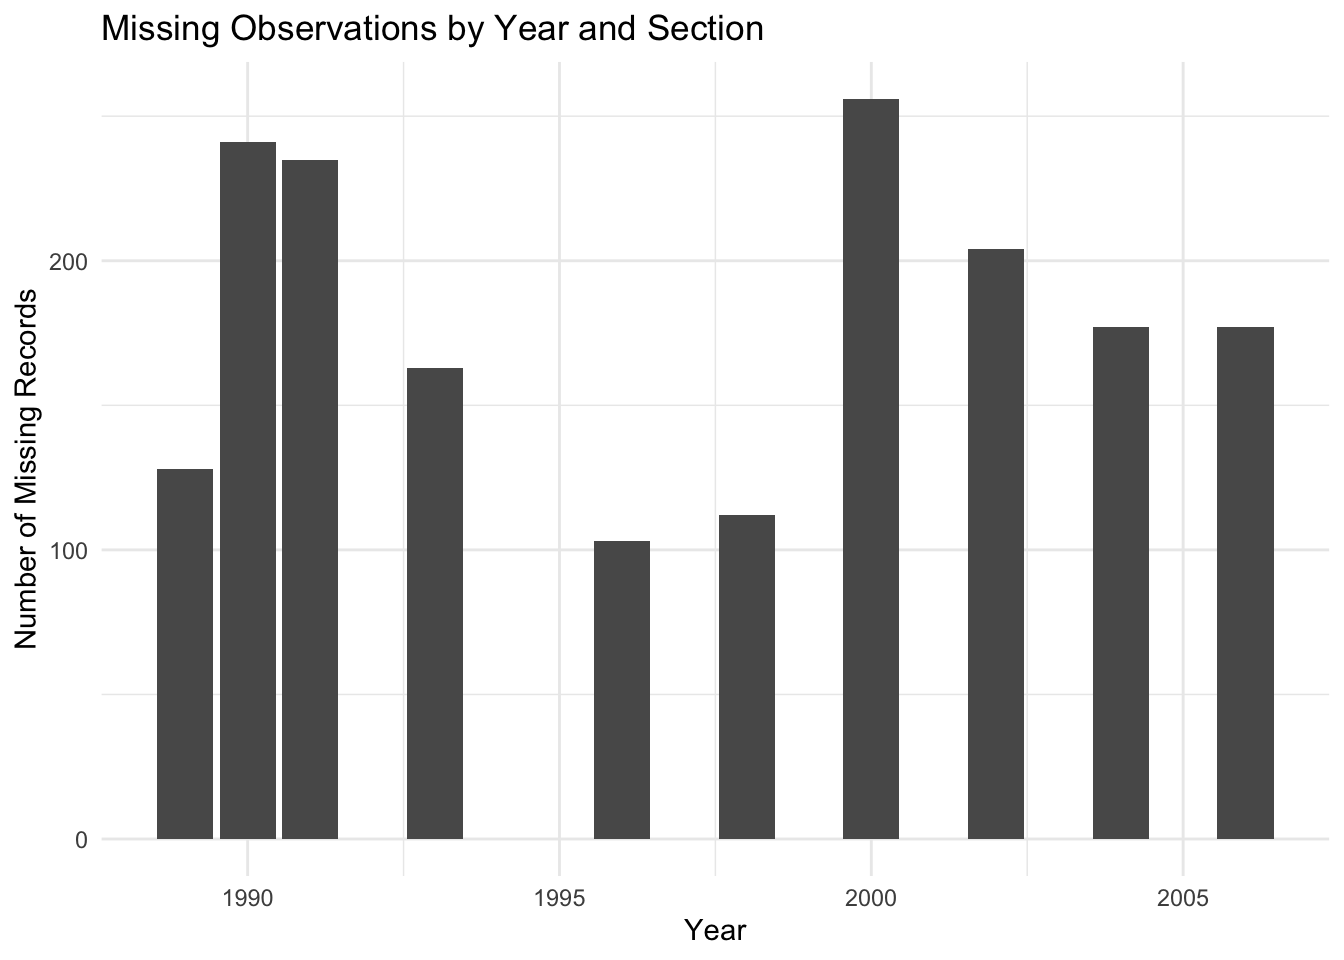
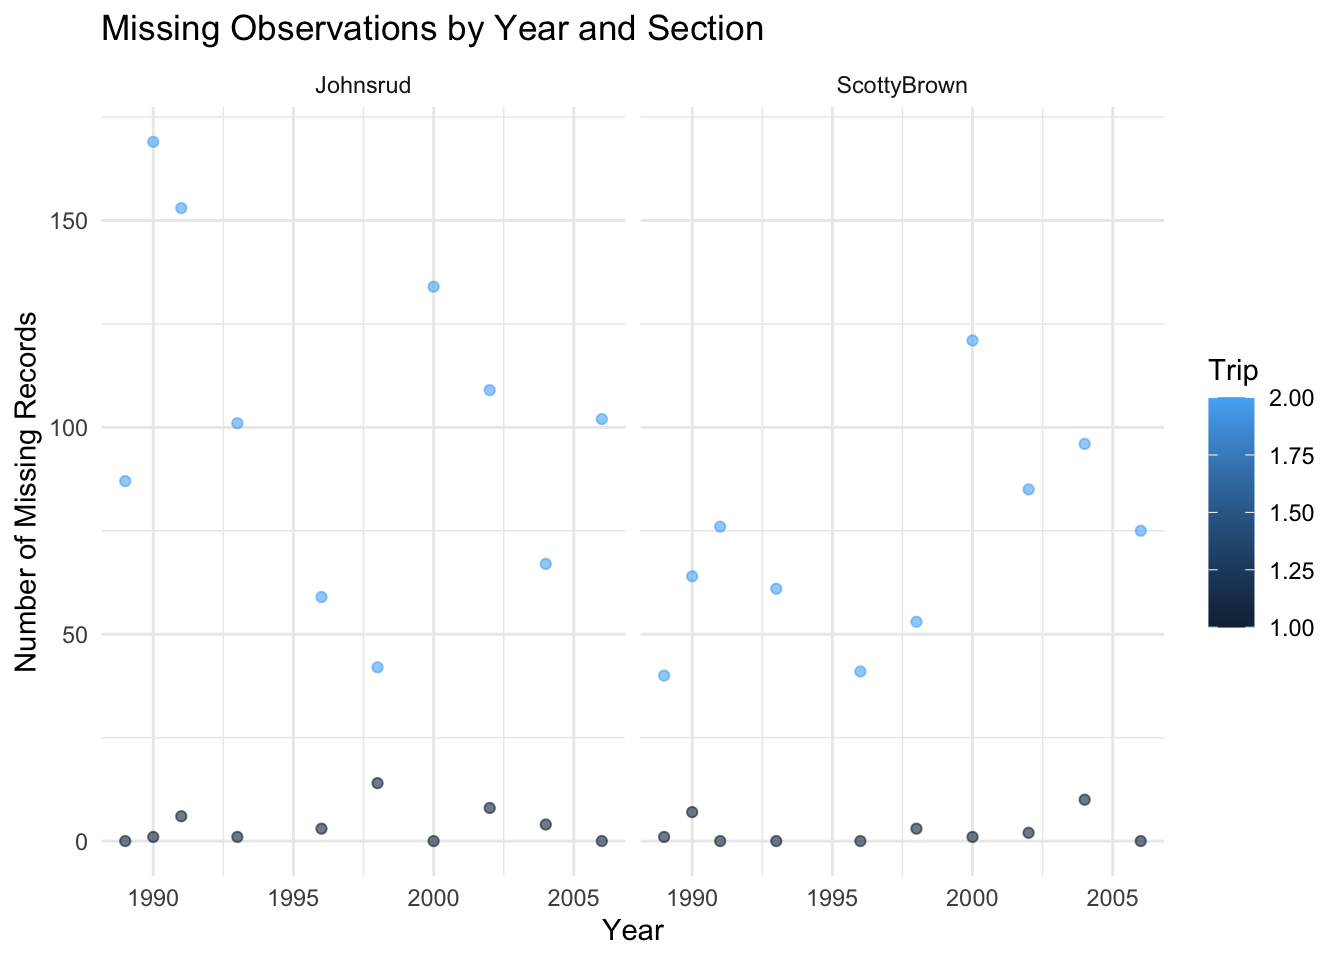
OOps Render!

diff --git a/lab-8-student.html b/lab-8-student.html
@@ -133,10 +133,6 @@ window.Quarto = {
 
 
 <p>The goal of this lab is learn more about exploring missing data and writing modular code.</p>
-<div class="cell">
-<div class="sourceCode cell-code" id="cb1"><pre class="sourceCode r code-with-copy"><code class="sourceCode r"><span id="cb1-1"><a href="#cb1-1" aria-hidden="true" tabindex="-1"></a><span class="fu">library</span>(tidyverse)</span>
-<span id="cb1-2"><a href="#cb1-2" aria-hidden="true" tabindex="-1"></a><span class="fu">library</span>(ggplot2)</span></code><button title="Copy to Clipboard" class="code-copy-button"><i class="bi"></i></button></pre></div>
-</div>
 <section id="the-data" class="level2">
 <h2 class="anchored" data-anchor-id="the-data">The Data</h2>
 <p>This lab’s data concerns mark-recapture data on four species of trout from the Blackfoot River outside of Helena, Montana. These four species are <strong>rainbow trout (RBT)</strong>, <strong>westslope cutthroat trout (WCT)</strong>, <strong>bull trout</strong>, and <strong>brown trout</strong>.</p>
@@ -164,37 +160,36 @@ You should use <code>across()</code>!
 </div>
 </div>
 <div class="cell">
-<div class="sourceCode cell-code" id="cb2"><pre class="sourceCode r code-with-copy"><code class="sourceCode r"><span id="cb2-1"><a href="#cb2-1" aria-hidden="true" tabindex="-1"></a>fish <span class="ot">&lt;-</span> <span class="fu">read_csv</span>(<span class="st">"BlackfootFish.csv"</span>)</span>
-<span id="cb2-2"><a href="#cb2-2" aria-hidden="true" tabindex="-1"></a></span>
-<span id="cb2-3"><a href="#cb2-3" aria-hidden="true" tabindex="-1"></a>n_rows_with_na <span class="ot">&lt;-</span> fish <span class="sc">|&gt;</span> </span>
-<span id="cb2-4"><a href="#cb2-4" aria-hidden="true" tabindex="-1"></a>  <span class="do">## Summarise returns a single value: the number of rows that have at least one NA</span></span>
-<span id="cb2-5"><a href="#cb2-5" aria-hidden="true" tabindex="-1"></a>  <span class="fu">summarise</span>(</span>
-<span id="cb2-6"><a href="#cb2-6" aria-hidden="true" tabindex="-1"></a>    <span class="at">n_rows_with_na =</span> <span class="fu">sum</span>(</span>
-<span id="cb2-7"><a href="#cb2-7" aria-hidden="true" tabindex="-1"></a>      <span class="do">## if_any checks across all columns for each row</span></span>
-<span id="cb2-8"><a href="#cb2-8" aria-hidden="true" tabindex="-1"></a>      <span class="fu">if_any</span>(<span class="fu">everything</span>(), <span class="sc">~</span> <span class="fu">is.na</span>(.))</span>
-<span id="cb2-9"><a href="#cb2-9" aria-hidden="true" tabindex="-1"></a>    )</span>
-<span id="cb2-10"><a href="#cb2-10" aria-hidden="true" tabindex="-1"></a>  )</span></code><button title="Copy to Clipboard" class="code-copy-button"><i class="bi"></i></button></pre></div>
-</div>
-<p><strong>1b. Using <code>map_int()</code>, produce a nicely formatted table of the number of missing values for each variable in the <code>fish</code> data that displays the same information as 1a</strong></p>
-<div class="cell">
-<div class="sourceCode cell-code" id="cb3"><pre class="sourceCode r code-with-copy"><code class="sourceCode r"><span id="cb3-1"><a href="#cb3-1" aria-hidden="true" tabindex="-1"></a>missing_by_variable <span class="ot">&lt;-</span> fish <span class="sc">|&gt;</span> </span>
-<span id="cb3-2"><a href="#cb3-2" aria-hidden="true" tabindex="-1"></a>  </span>
-<span id="cb3-3"><a href="#cb3-3" aria-hidden="true" tabindex="-1"></a>  <span class="do">## Apply a function to each column: count how many NAs are in each</span></span>
-<span id="cb3-4"><a href="#cb3-4" aria-hidden="true" tabindex="-1"></a>  <span class="fu">summarise</span>(<span class="fu">across</span>(<span class="fu">everything</span>(), <span class="sc">~</span> <span class="fu">sum</span>(<span class="fu">is.na</span>(.)))) <span class="sc">|&gt;</span> </span>
-<span id="cb3-5"><a href="#cb3-5" aria-hidden="true" tabindex="-1"></a>  </span>
-<span id="cb3-6"><a href="#cb3-6" aria-hidden="true" tabindex="-1"></a>  <span class="do">## Reshape the data from wide format (one row with many columns) to long format:</span></span>
-<span id="cb3-7"><a href="#cb3-7" aria-hidden="true" tabindex="-1"></a>  <span class="fu">pivot_longer</span>(<span class="fu">everything</span>(), <span class="at">names_to =</span> <span class="st">"variable"</span>, <span class="at">values_to =</span> <span class="st">"missing_count"</span>) <span class="sc">|&gt;</span> </span>
-<span id="cb3-8"><a href="#cb3-8" aria-hidden="true" tabindex="-1"></a>  </span>
-<span id="cb3-9"><a href="#cb3-9" aria-hidden="true" tabindex="-1"></a>  <span class="do">## Keep only the variables where the missing count is greater than 0</span></span>
-<span id="cb3-10"><a href="#cb3-10" aria-hidden="true" tabindex="-1"></a>  <span class="fu">filter</span>(missing_count <span class="sc">&gt;</span> <span class="dv">0</span>)</span>
-<span id="cb3-11"><a href="#cb3-11" aria-hidden="true" tabindex="-1"></a></span>
-<span id="cb3-12"><a href="#cb3-12" aria-hidden="true" tabindex="-1"></a></span>
-<span id="cb3-13"><a href="#cb3-13" aria-hidden="true" tabindex="-1"></a>missing_by_variable</span></code><button title="Copy to Clipboard" class="code-copy-button"><i class="bi"></i></button></pre></div>
+<div class="sourceCode cell-code" id="cb1"><pre class="sourceCode r code-with-copy"><code class="sourceCode r"><span id="cb1-1"><a href="#cb1-1" aria-hidden="true" tabindex="-1"></a>fish <span class="ot">&lt;-</span> <span class="fu">read_csv</span>(<span class="st">"BlackfootFish.csv"</span>,<span class="at">show_col_types =</span> <span class="cn">FALSE</span>)</span>
+<span id="cb1-2"><a href="#cb1-2" aria-hidden="true" tabindex="-1"></a></span>
+<span id="cb1-3"><a href="#cb1-3" aria-hidden="true" tabindex="-1"></a>missing_by_variable <span class="ot">&lt;-</span> fish <span class="sc">|&gt;</span> </span>
+<span id="cb1-4"><a href="#cb1-4" aria-hidden="true" tabindex="-1"></a>  </span>
+<span id="cb1-5"><a href="#cb1-5" aria-hidden="true" tabindex="-1"></a>  <span class="do">## Apply a function to each column: count how many NAs are in each</span></span>
+<span id="cb1-6"><a href="#cb1-6" aria-hidden="true" tabindex="-1"></a>  <span class="fu">summarise</span>(<span class="fu">across</span>(<span class="fu">everything</span>(), <span class="sc">~</span> <span class="fu">sum</span>(<span class="fu">is.na</span>(.)))) <span class="sc">|&gt;</span> </span>
+<span id="cb1-7"><a href="#cb1-7" aria-hidden="true" tabindex="-1"></a>  </span>
+<span id="cb1-8"><a href="#cb1-8" aria-hidden="true" tabindex="-1"></a>  <span class="do">## Reshape the data from wide format (one row with many columns) to long format:</span></span>
+<span id="cb1-9"><a href="#cb1-9" aria-hidden="true" tabindex="-1"></a>  <span class="fu">pivot_longer</span>(<span class="fu">everything</span>(), <span class="at">names_to =</span> <span class="st">"variable"</span>, <span class="at">values_to =</span> <span class="st">"missing_count"</span>) <span class="sc">|&gt;</span> </span>
+<span id="cb1-10"><a href="#cb1-10" aria-hidden="true" tabindex="-1"></a>  </span>
+<span id="cb1-11"><a href="#cb1-11" aria-hidden="true" tabindex="-1"></a>  <span class="do">## Keep only the variables where the missing count is greater than 0</span></span>
+<span id="cb1-12"><a href="#cb1-12" aria-hidden="true" tabindex="-1"></a>  <span class="fu">filter</span>(missing_count <span class="sc">&gt;</span> <span class="dv">0</span>)</span>
+<span id="cb1-13"><a href="#cb1-13" aria-hidden="true" tabindex="-1"></a></span>
+<span id="cb1-14"><a href="#cb1-14" aria-hidden="true" tabindex="-1"></a></span>
+<span id="cb1-15"><a href="#cb1-15" aria-hidden="true" tabindex="-1"></a>missing_by_variable</span></code><button title="Copy to Clipboard" class="code-copy-button"><i class="bi"></i></button></pre></div>
 <div class="cell-output cell-output-stdout">
 <pre><code># A tibble: 1 × 2
   variable missing_count
   &lt;chr&gt;            &lt;int&gt;
 1 weight            1796</code></pre>
+</div>
+</div>
+<p><strong>1b. Using <code>map_int()</code>, produce a nicely formatted table of the number of missing values for each variable in the <code>fish</code> data that displays the same information as 1a</strong></p>
+<div class="cell">
+<div class="sourceCode cell-code" id="cb3"><pre class="sourceCode r code-with-copy"><code class="sourceCode r"><span id="cb3-1"><a href="#cb3-1" aria-hidden="true" tabindex="-1"></a><span class="fu">library</span>(purrr)</span>
+<span id="cb3-2"><a href="#cb3-2" aria-hidden="true" tabindex="-1"></a></span>
+<span id="cb3-3"><a href="#cb3-3" aria-hidden="true" tabindex="-1"></a><span class="fu">map_int</span>(fish, <span class="sc">~</span> <span class="fu">sum</span>(<span class="fu">is.na</span>(.)))</span></code><button title="Copy to Clipboard" class="code-copy-button"><i class="bi"></i></button></pre></div>
+<div class="cell-output cell-output-stdout">
+<pre><code>   trip    mark  length  weight    year section species 
+      0       0       0    1796       0       0       0 </code></pre>
 </div>
 </div>
 <p><strong>2. Create ONE thoughtful visualization that explores the frequency of missing values across the different years, sections, and trips.</strong></p>
@@ -211,18 +206,22 @@ You should use <code>across()</code>!
 <span id="cb5-10"><a href="#cb5-10" aria-hidden="true" tabindex="-1"></a>  <span class="fu">summarise</span>(<span class="at">n_missing =</span> <span class="fu">sum</span>(row_missing), <span class="at">.groups =</span> <span class="st">"drop"</span>) <span class="sc">|&gt;</span> </span>
 <span id="cb5-11"><a href="#cb5-11" aria-hidden="true" tabindex="-1"></a>  </span>
 <span id="cb5-12"><a href="#cb5-12" aria-hidden="true" tabindex="-1"></a>  <span class="do">## Start a ggplot with year on x-axis and number of missing on y-axis</span></span>
-<span id="cb5-13"><a href="#cb5-13" aria-hidden="true" tabindex="-1"></a>  <span class="fu">ggplot</span>(<span class="fu">aes</span>(<span class="at">x =</span> year, <span class="at">y =</span> n_missing)) <span class="sc">+</span></span>
+<span id="cb5-13"><a href="#cb5-13" aria-hidden="true" tabindex="-1"></a>  <span class="fu">ggplot</span>(<span class="fu">aes</span>(<span class="at">x =</span> year, <span class="at">y =</span> n_missing, <span class="at">color =</span> trip)) <span class="sc">+</span></span>
 <span id="cb5-14"><a href="#cb5-14" aria-hidden="true" tabindex="-1"></a>  </span>
 <span id="cb5-15"><a href="#cb5-15" aria-hidden="true" tabindex="-1"></a>  <span class="do">## Create a bar chart of missing values over time</span></span>
-<span id="cb5-16"><a href="#cb5-16" aria-hidden="true" tabindex="-1"></a>  <span class="fu">geom_col</span>() <span class="sc">+</span></span>
+<span id="cb5-16"><a href="#cb5-16" aria-hidden="true" tabindex="-1"></a>  <span class="fu">geom_point</span>(<span class="at">alpha =</span> <span class="fl">0.6</span>) <span class="sc">+</span></span>
 <span id="cb5-17"><a href="#cb5-17" aria-hidden="true" tabindex="-1"></a>  </span>
-<span id="cb5-18"><a href="#cb5-18" aria-hidden="true" tabindex="-1"></a>  <span class="do">## Lables and theme!</span></span>
-<span id="cb5-19"><a href="#cb5-19" aria-hidden="true" tabindex="-1"></a>  <span class="fu">labs</span>(</span>
-<span id="cb5-20"><a href="#cb5-20" aria-hidden="true" tabindex="-1"></a>    <span class="at">title =</span> <span class="st">"Missing Observations by Year and Section"</span>,</span>
-<span id="cb5-21"><a href="#cb5-21" aria-hidden="true" tabindex="-1"></a>    <span class="at">y =</span> <span class="st">"Number of Missing Records"</span>,</span>
-<span id="cb5-22"><a href="#cb5-22" aria-hidden="true" tabindex="-1"></a>    <span class="at">x =</span> <span class="st">"Year"</span></span>
-<span id="cb5-23"><a href="#cb5-23" aria-hidden="true" tabindex="-1"></a>  ) <span class="sc">+</span></span>
-<span id="cb5-24"><a href="#cb5-24" aria-hidden="true" tabindex="-1"></a>  <span class="fu">theme_minimal</span>()</span></code><button title="Copy to Clipboard" class="code-copy-button"><i class="bi"></i></button></pre></div>
+<span id="cb5-18"><a href="#cb5-18" aria-hidden="true" tabindex="-1"></a>  <span class="do">## Create separate plots (facets) for each river section,</span></span>
+<span id="cb5-19"><a href="#cb5-19" aria-hidden="true" tabindex="-1"></a>  <span class="fu">facet_wrap</span>(<span class="sc">~</span> section)<span class="sc">+</span></span>
+<span id="cb5-20"><a href="#cb5-20" aria-hidden="true" tabindex="-1"></a>  </span>
+<span id="cb5-21"><a href="#cb5-21" aria-hidden="true" tabindex="-1"></a>  <span class="do">## Lables and theme!</span></span>
+<span id="cb5-22"><a href="#cb5-22" aria-hidden="true" tabindex="-1"></a>  <span class="fu">labs</span>(</span>
+<span id="cb5-23"><a href="#cb5-23" aria-hidden="true" tabindex="-1"></a>    <span class="at">title =</span> <span class="st">"Missing Observations by Year and Section"</span>,</span>
+<span id="cb5-24"><a href="#cb5-24" aria-hidden="true" tabindex="-1"></a>    <span class="at">y =</span> <span class="st">"Number of Missing Records"</span>,</span>
+<span id="cb5-25"><a href="#cb5-25" aria-hidden="true" tabindex="-1"></a>    <span class="at">x =</span> <span class="st">"Year"</span>,</span>
+<span id="cb5-26"><a href="#cb5-26" aria-hidden="true" tabindex="-1"></a>    <span class="at">color =</span> <span class="st">"Trip"</span></span>
+<span id="cb5-27"><a href="#cb5-27" aria-hidden="true" tabindex="-1"></a>  ) <span class="sc">+</span></span>
+<span id="cb5-28"><a href="#cb5-28" aria-hidden="true" tabindex="-1"></a>  <span class="fu">theme_minimal</span>()</span></code><button title="Copy to Clipboard" class="code-copy-button"><i class="bi"></i></button></pre></div>
 <div class="cell-output-display">
 <div>
 <figure class="figure">
@@ -257,9 +256,19 @@ You should use <code>across()</code>!
 </ul>
 <div class="cell">
 <div class="sourceCode cell-code" id="cb7"><pre class="sourceCode r code-with-copy"><code class="sourceCode r"><span id="cb7-1"><a href="#cb7-1" aria-hidden="true" tabindex="-1"></a>rescale_01 <span class="ot">&lt;-</span> <span class="cf">function</span>(x) {</span>
-<span id="cb7-2"><a href="#cb7-2" aria-hidden="true" tabindex="-1"></a>  (x <span class="sc">-</span> <span class="fu">min</span>(x, <span class="at">na.rm =</span> <span class="cn">TRUE</span>)) <span class="sc">/</span> </span>
-<span id="cb7-3"><a href="#cb7-3" aria-hidden="true" tabindex="-1"></a>    (<span class="fu">max</span>(x, <span class="at">na.rm =</span> <span class="cn">TRUE</span>) <span class="sc">-</span> <span class="fu">min</span>(x, <span class="at">na.rm =</span> <span class="cn">TRUE</span>))</span>
-<span id="cb7-4"><a href="#cb7-4" aria-hidden="true" tabindex="-1"></a>}</span></code><button title="Copy to Clipboard" class="code-copy-button"><i class="bi"></i></button></pre></div>
+<span id="cb7-2"><a href="#cb7-2" aria-hidden="true" tabindex="-1"></a>  </span>
+<span id="cb7-3"><a href="#cb7-3" aria-hidden="true" tabindex="-1"></a>  </span>
+<span id="cb7-4"><a href="#cb7-4" aria-hidden="true" tabindex="-1"></a>  <span class="co"># Input validation, found the idea from Stack Overflow :: https://stackoverflow.com/questions/79025632/how-to-stop-r-from-executing-when-value-is-non-numeric?</span></span>
+<span id="cb7-5"><a href="#cb7-5" aria-hidden="true" tabindex="-1"></a>  <span class="cf">if</span> (<span class="sc">!</span><span class="fu">is.numeric</span>(x)) {</span>
+<span id="cb7-6"><a href="#cb7-6" aria-hidden="true" tabindex="-1"></a>    <span class="fu">stop</span>(<span class="st">"Input must be numeric."</span>)</span>
+<span id="cb7-7"><a href="#cb7-7" aria-hidden="true" tabindex="-1"></a>  }</span>
+<span id="cb7-8"><a href="#cb7-8" aria-hidden="true" tabindex="-1"></a>  <span class="cf">if</span> (<span class="fu">length</span>(x) <span class="sc">&lt;=</span> <span class="dv">1</span>) {</span>
+<span id="cb7-9"><a href="#cb7-9" aria-hidden="true" tabindex="-1"></a>    <span class="fu">stop</span>(<span class="st">"Input must have more than one value."</span>)</span>
+<span id="cb7-10"><a href="#cb7-10" aria-hidden="true" tabindex="-1"></a>  }</span>
+<span id="cb7-11"><a href="#cb7-11" aria-hidden="true" tabindex="-1"></a>  </span>
+<span id="cb7-12"><a href="#cb7-12" aria-hidden="true" tabindex="-1"></a>  (x <span class="sc">-</span> <span class="fu">min</span>(x, <span class="at">na.rm =</span> <span class="cn">TRUE</span>)) <span class="sc">/</span> </span>
+<span id="cb7-13"><a href="#cb7-13" aria-hidden="true" tabindex="-1"></a>    (<span class="fu">max</span>(x, <span class="at">na.rm =</span> <span class="cn">TRUE</span>) <span class="sc">-</span> <span class="fu">min</span>(x, <span class="at">na.rm =</span> <span class="cn">TRUE</span>))</span>
+<span id="cb7-14"><a href="#cb7-14" aria-hidden="true" tabindex="-1"></a>}</span></code><button title="Copy to Clipboard" class="code-copy-button"><i class="bi"></i></button></pre></div>
 </div>
 <div class="callout callout-style-default callout-tip callout-titled">
 <div class="callout-header d-flex align-content-center">
